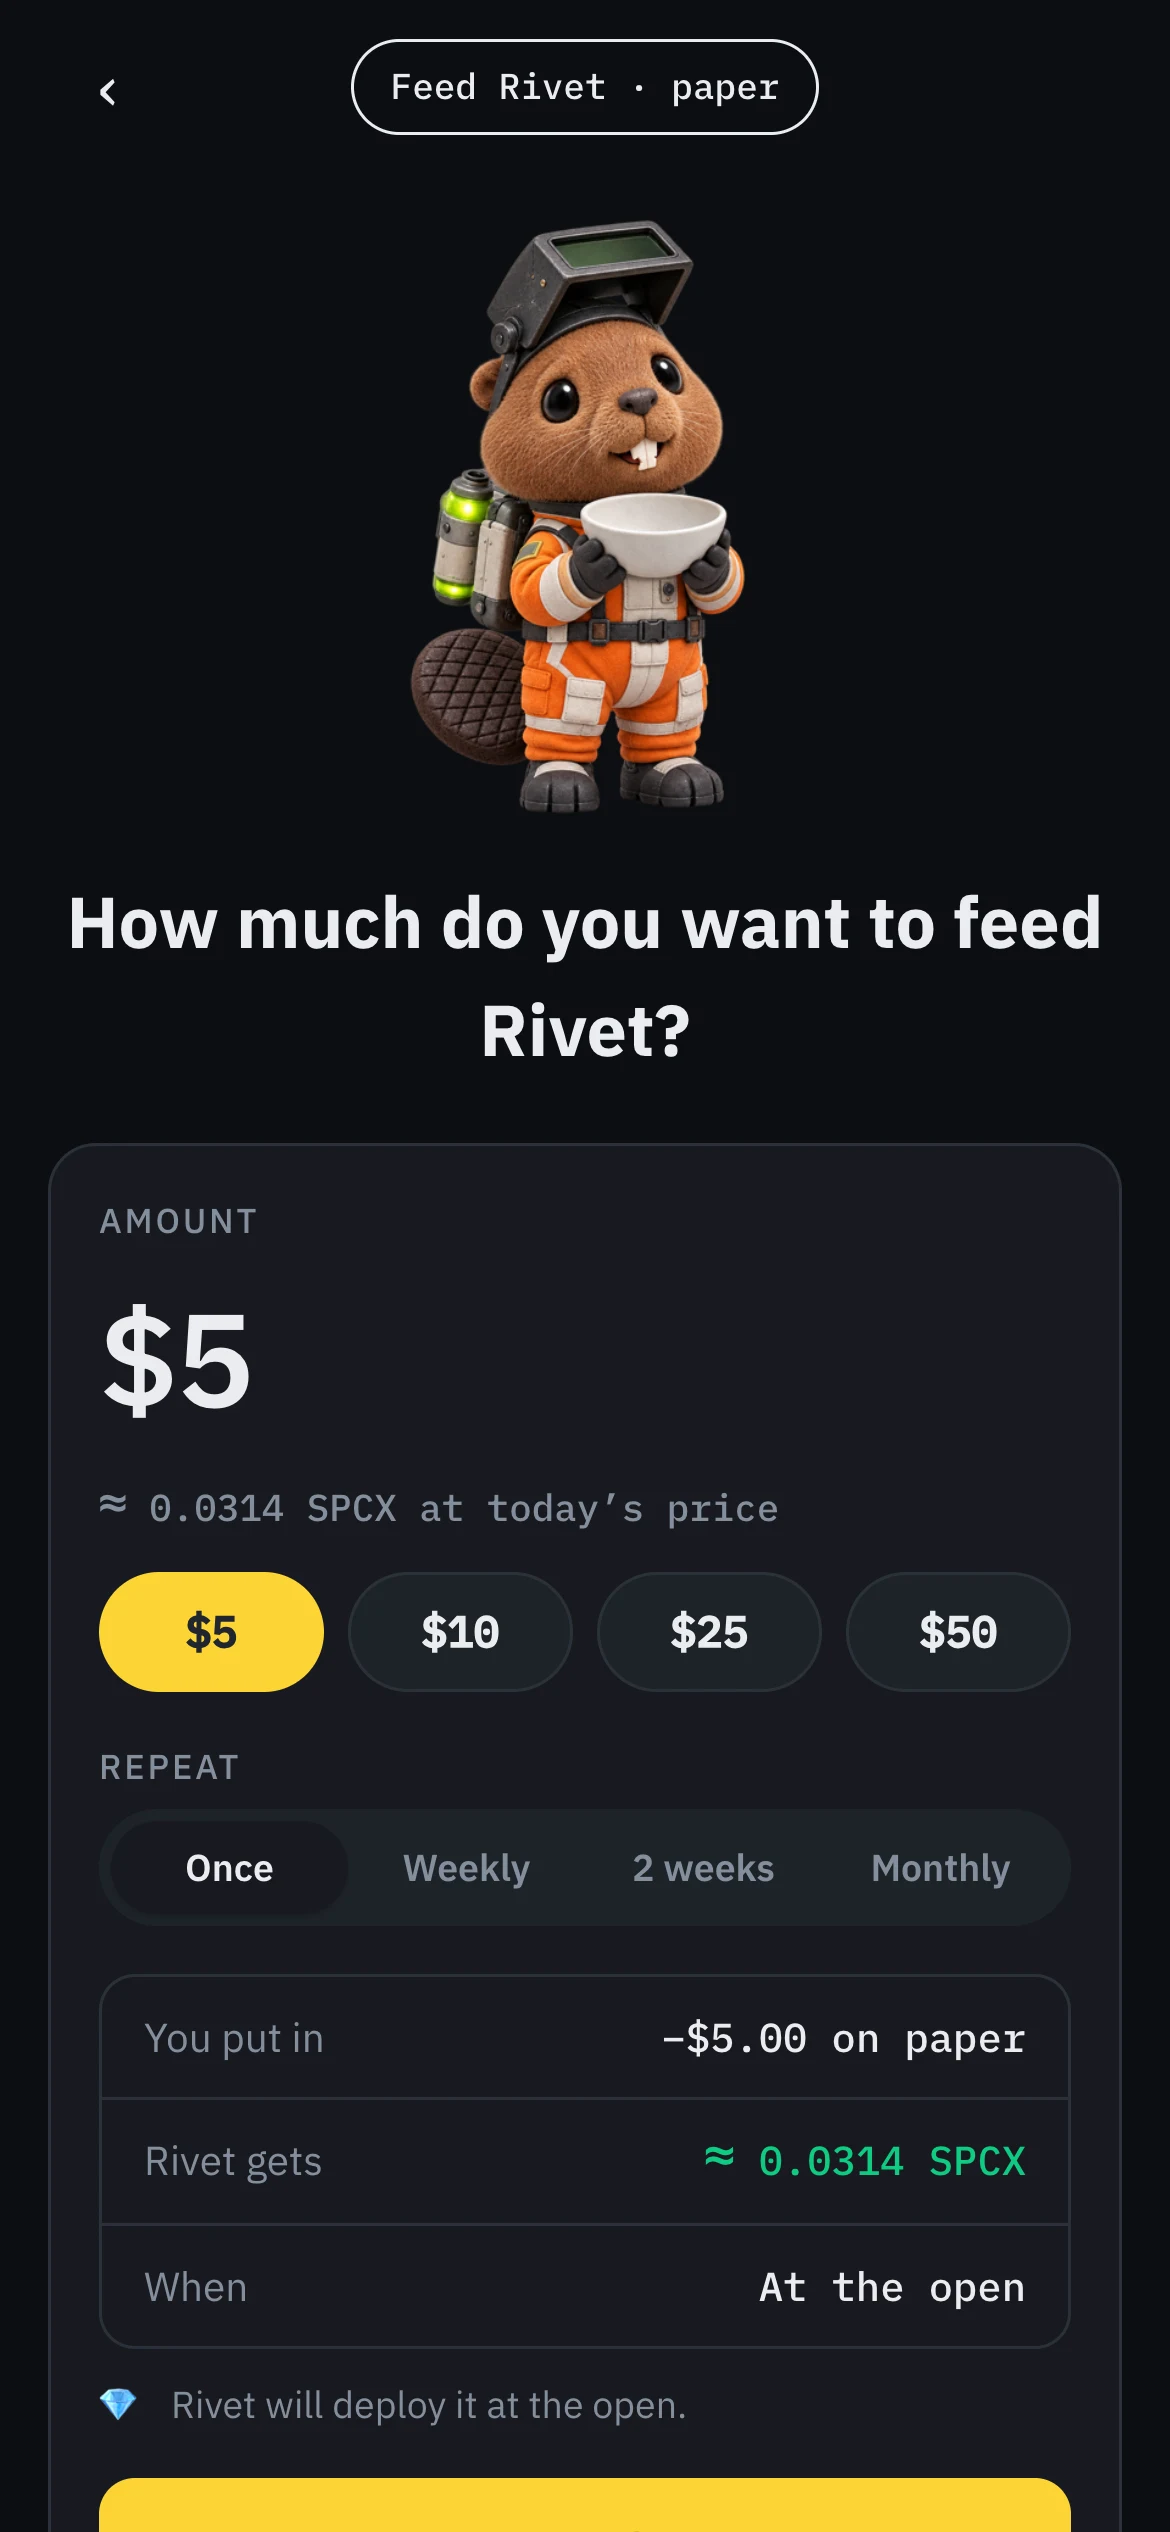
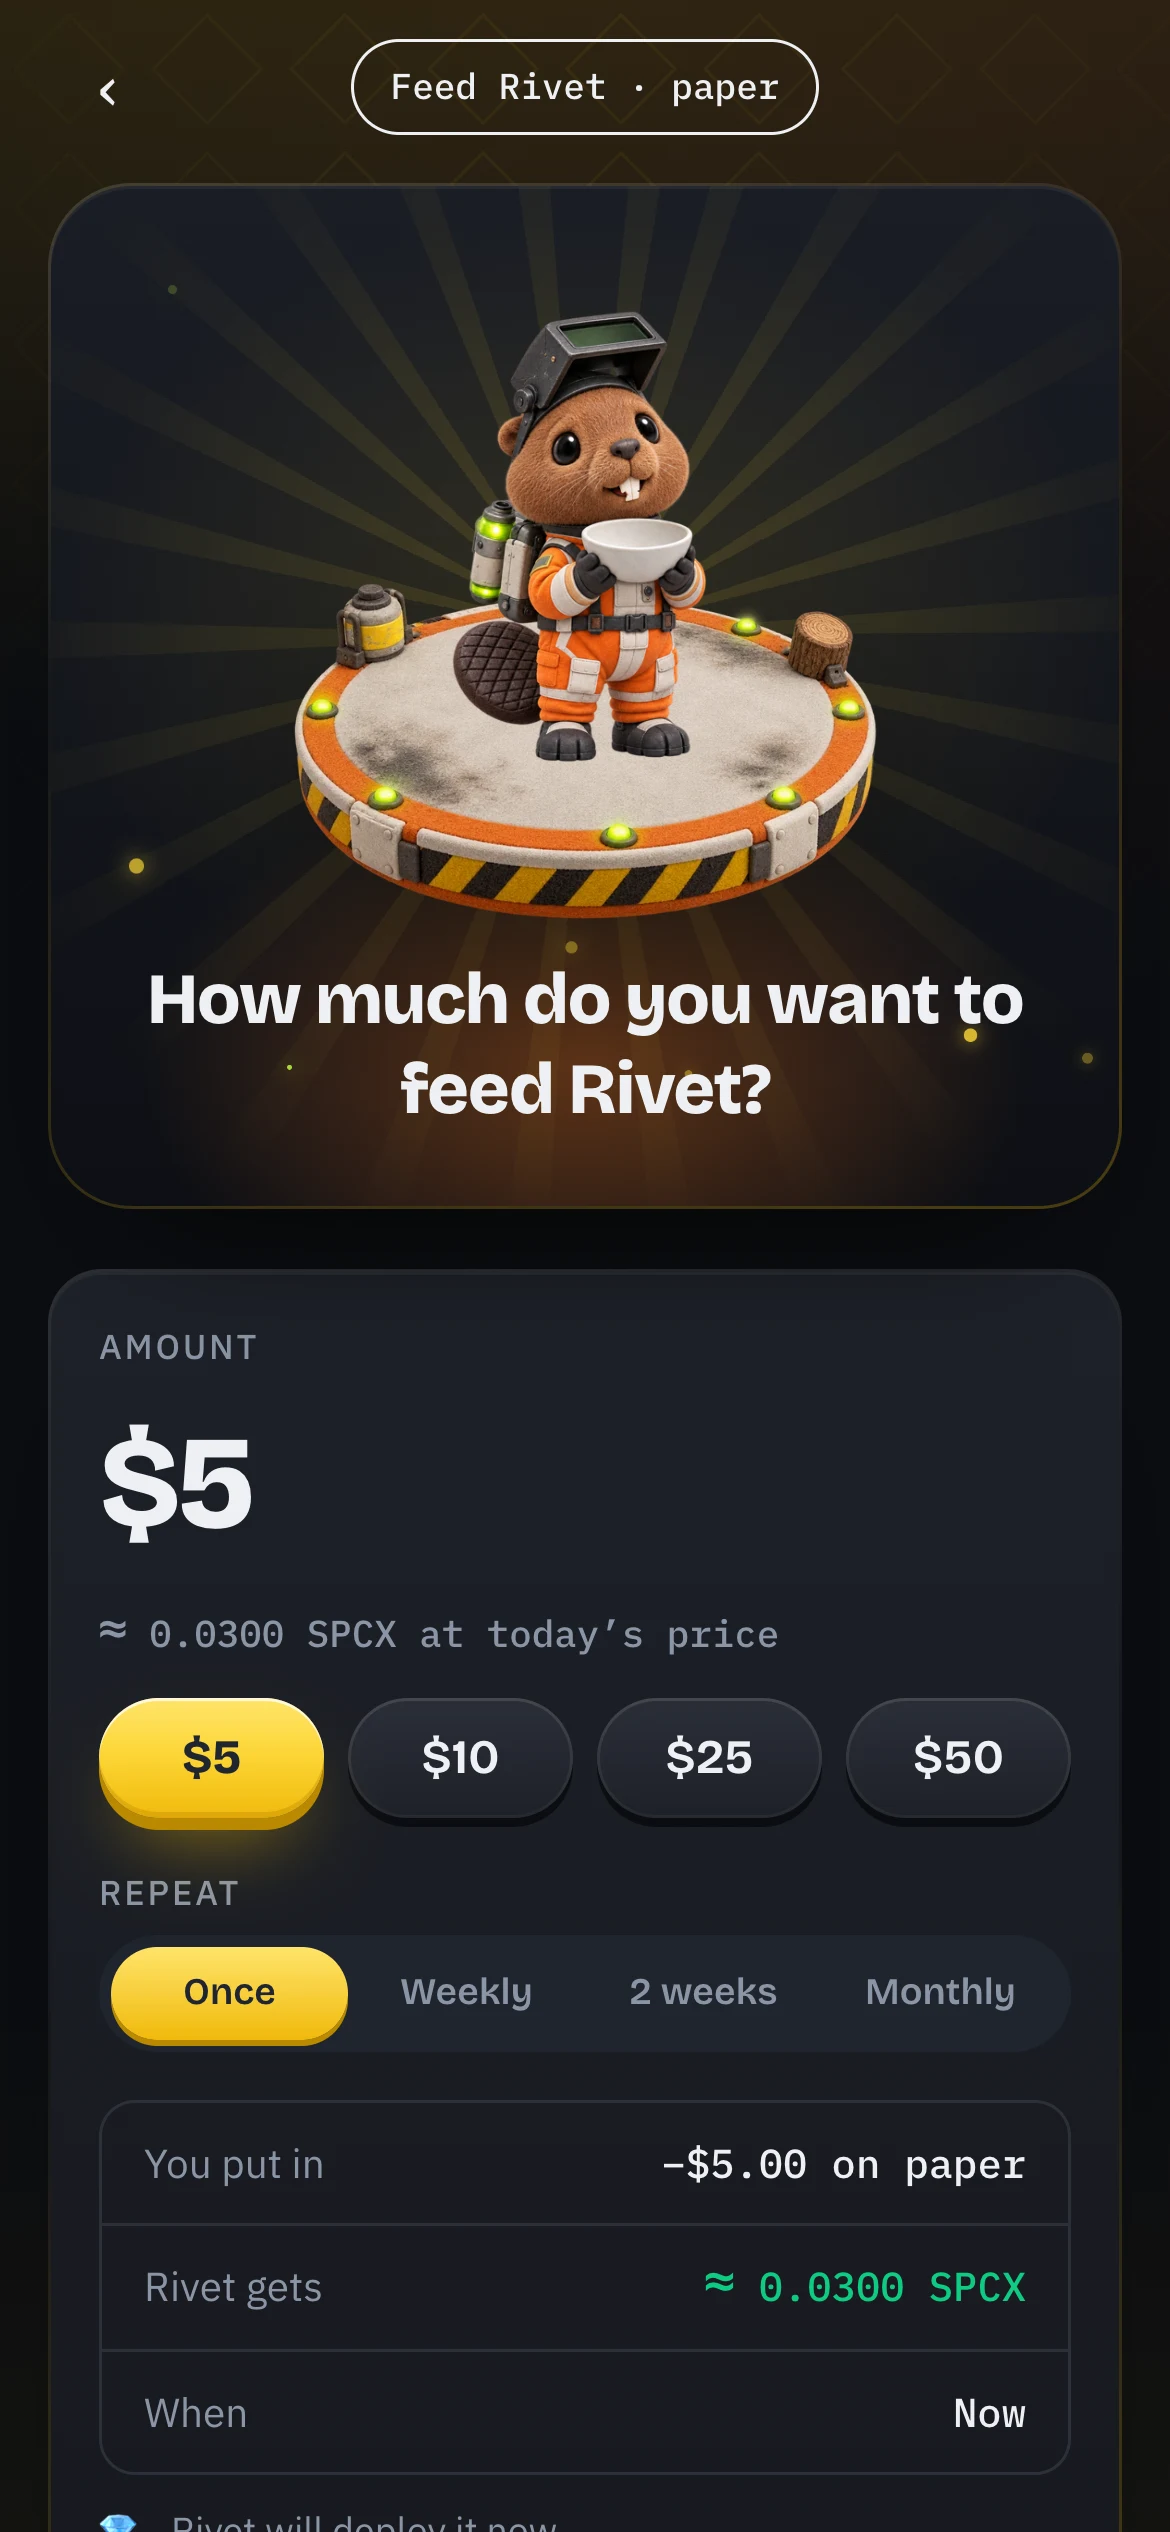
README screenshots of the new look
All seven retaken from a production build: Rivet on his launch pad by day
and by night, the Magnificent 7 litter, adopt with the pod carousel, the
cheaper-issuer comparison, and the home and feed screens on a phone. The
README's words follow the pictures: the stage lights up at the close, the
board has a podium, and on desktop the buddy stands on its habitat.

diff --git a/README.md b/README.md
@@ -30,7 +30,7 @@ A tokenized stock trades every hour of the week. The exchange behind it is open 
 
 A buddy makes it felt rather than explained:
 
-- **It lives on the market's clock.** The app has a day and a night in Binance's colours — its light theme while the NYSE trades, its dark one while it sleeps — switched by the real session, holidays included. At the close the Fledgling's floor starts to glow. There is a mood only a 24/7 chain can have — **Night Owl**: *"Wall Street sleeps. I don't."*
+- **It lives on the market's clock.** The app has a day and a night in Binance's colours — its light theme while the NYSE trades, its dark one while it sleeps — switched by the real session, holidays included. At the close the room goes dark and its stage lights up. There is a mood only a 24/7 chain can have — **Night Owl**: *"Wall Street sleeps. I don't."*
 - **Its mood is the market.** Eight moods from the live print, the session and how hungry it is. Hunger and session outrank price, so care is never masked by a green day.
 - **Its personality is its strategy.** 💎 *Diamond Hands* deploys at every open and never sells. ⚡ *Degen* hunts 2% dips at any hour. 🕰 *Boomer* trades regular hours only and keeps 20% back. 📊 *Quant* rebalances weekly and cites basis points. 🌙 *Night Shift* buys only while Wall Street sleeps, and only under the last close. 🏄 *Trend Rider* adds weekly, and only to a stock already above its five-day average.
 - **It rewards habits, not hype.** Feeding days, a streak that forgives a missed day, growth from care — and no confetti for trading.
@@ -52,9 +52,9 @@ A buddy makes it felt rather than explained:
 - **A nest.** Keep several Fledglings and litters; one portfolio view, real money and paper counted apart.
 - **Habits, not hype.** Weekly, fortnightly or monthly **feeding days** (missed ones are skipped, never stacked into a catch-up buy); a free daily **scratch**; a streak that **forgives one missed day a week**; growth from Hatchling to Legend by days visited and feeding days kept — never by returns or deposit size. When a token's share ratio rises, a dividend was reinvested, and the buddy says it grew. Confetti is for hatching and care milestones only.
 - **It keeps going without you.** An hourly worker replays the same deterministic engine against the real hourly tape, keeps paper feeding days, and writes the diary. A buddy waiting on your yes/no is skipped: the permission rule holds when nobody is watching.
-- **Board and duels.** A leaderboard by today's move, all-time P&L or care — the care ranking never counts money — and 24-hour duels between Fledglings that neither owner can trade during, with the closest race up front.
+- **Board and duels.** A leaderboard by today's move, all-time P&L or care — the care ranking never counts money — and 24-hour duels between Fledglings that neither owner can trade during, with the top three on a podium and the closest race up front.
 - **A buddy on Telegram.** Feeding-day reminders with a **Sign it** button, the buddy's own buy requests, and `/buddies` to check in. It never trades from the chat.
-- **Phone and desktop.** A thumb-first phone app with a tab bar; on a wide screen, an exchange-style top bar with the market clock and the wallet, and every page laid out two-up — the buddy on its own stage beside its numbers, the market and what it did lately.
+- **Phone and desktop.** A thumb-first phone app with a tab bar; on a wide screen, an exchange-style top bar with the market clock and the wallet, and every page laid out two-up — the buddy standing on its own habitat on a lit stage, beside its numbers, the market and what it did lately.
 
 <p align="center"><img src="docs/img/home-mobile.webp" width="300" alt="Roost on a phone" />&nbsp;&nbsp;&nbsp;<img src="docs/img/feed-mobile.webp" width="300" alt="Feeding a Fledgling on a phone" /></p>
 
